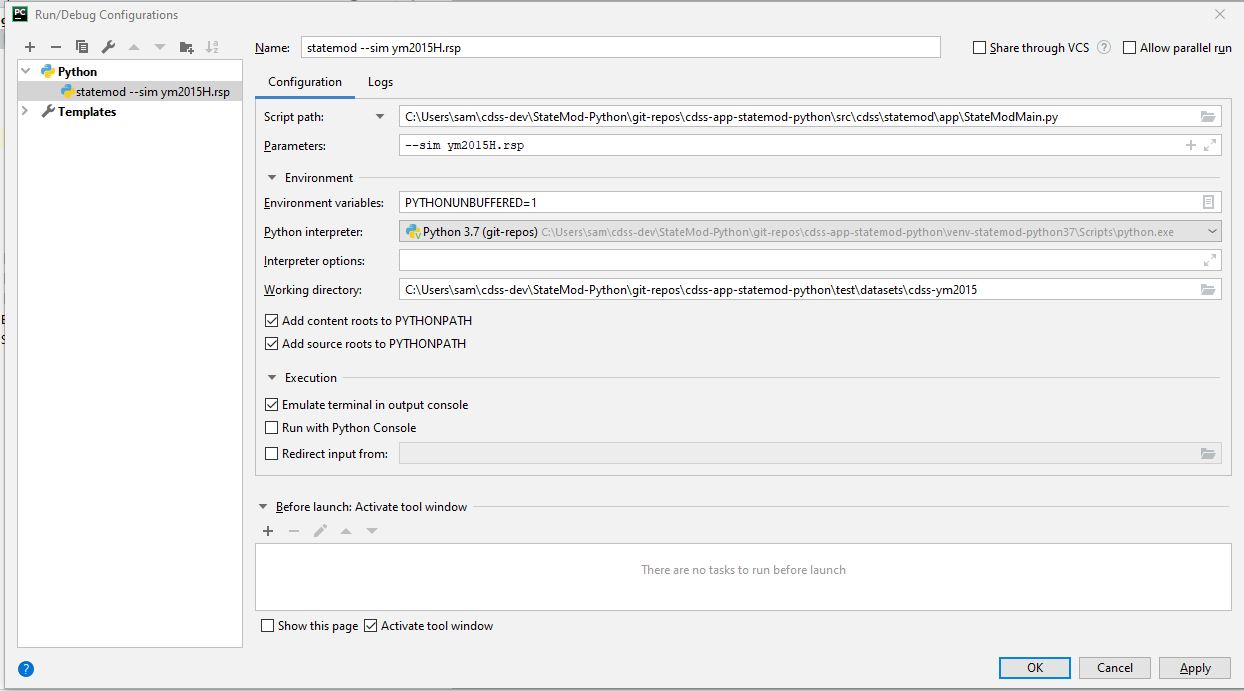
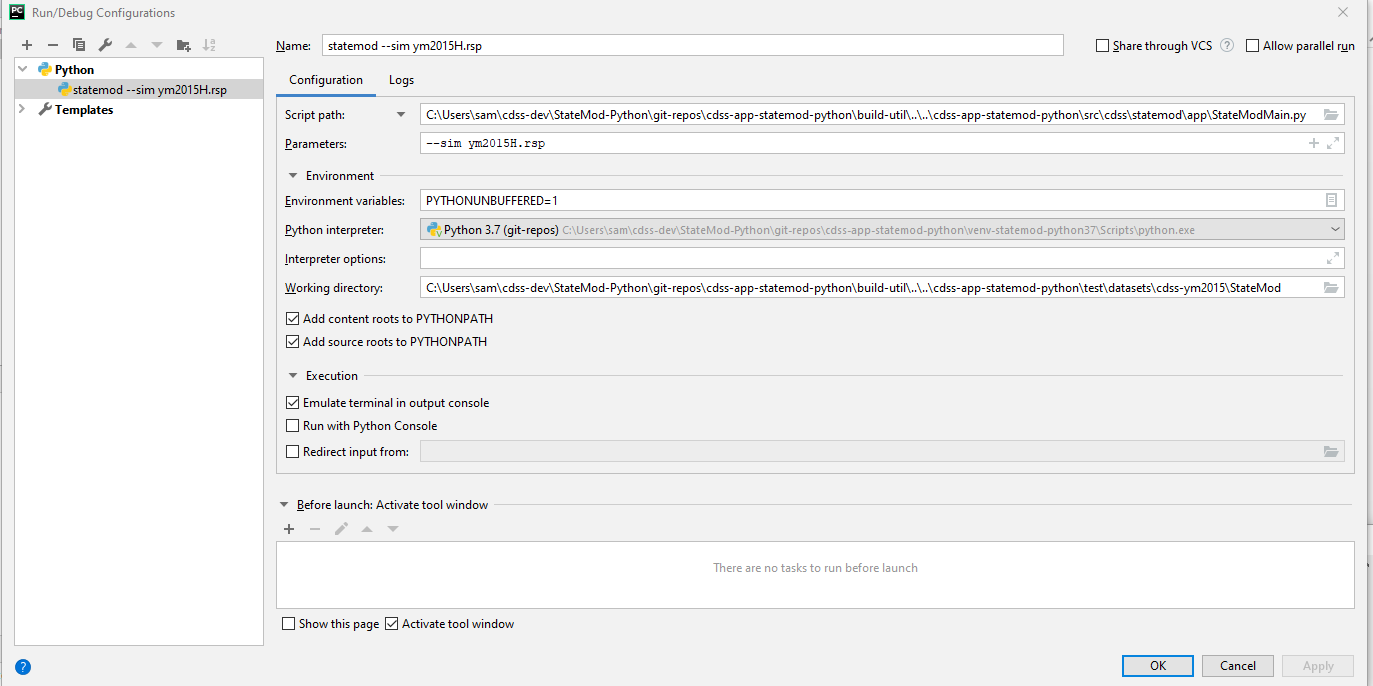
Update README based on review.

Changed region(s): [[0.0, 0.0, 1.0, 1.0], [0.0, 0.4592, 0.0305, 0.4898]]

diff --git a/README.md b/README.md
@@ -14,29 +14,33 @@ CDSS prototype of StateMod written in Python
 
 ## Introduction ## 
 
-The code in this repository, and other related repositories,
-was ported from the Java code found in the separate repository
-[cdss-app-statemod-java](https://github.com/OpenCDSS/cdss-app-statemod-java),
-in an effort to determine which programming language would be best suited for
+The code in this repository and other related repositories was ported from Java code
+in an effort to evaluate which programming language(s) may be suitable for
 converting the StateMod software from Fortran to another language.
-The initial StateMod code in Fortran was converted to Java by [@Smalers](https://github.com/smalers) at the Open Water Foundation.
-The Java code was then converted to C# before being ported and converted to Python.
-The C# code can be found in the repository [cdss-app-statemod-cs](<https://github.com/OpenCDSS/cdss-app-statemod-cs>). 
 
-The process for porting the code from Java to Python was as follows:
+The StateMod Java prototype was implemented as a simple main program that uses extensive Java libraries that have been
+developed for data processing tools including TSTool and StateDMI.
+The Java code was ported to Python in this and other Python code repositories (see below) in order to create a Python StateMod prototype.
 
+The main repositories for StateMod language evaluation prototypes are:
+
+* Java:  [cdss-app-statemod-java](https://github.com/OpenCDSS/cdss-app-statemod-java)
+* C#:  [cdss-app-statemod-cs](https://github.com/OpenCDSS/cdss-app-statemod-cs) 
+* Fortran 2008:  [cdss-app-statemod-f2008](https://github.com/OpenCDSS/cdss-app-statemod-f2008) 
+* Python:  this repository
+
+The process for porting the code from Java to Python was as follows: 
 All code was converted by hand, since there was no competent automatic Java to Python converter for Python3.x.
 The first file ported over was `StateMod_Main.py` as the entry point for the program.
 Additional files were added with the necessary classes and functions that were needed by this entry point.
-Files were added in a branching manner to ensure that all code had access to the necessary classes and functions to run properly. 
 
-The files currently supported by StateMod-Python are:
+The StateMod dataset files that are currently supported by StateMod-Python are:
 
 - `.rsp` 
 - `.dds`
 - `.ddr`
 - `StateMod_StreamGage` (`.rin`, `.ris`)
-- All Time Series files read by `StateMod_TS.py` 
+- all time series files read by `StateMod_TS.py` 
 
 ## Repository Contents ##
 
@@ -49,7 +53,7 @@ Repository folder names should agree with GitHub repository names.
 Scripts in repository folders that process data should detect their starting location
 and then locate other folders based on the following convention.
 
-*See [Development Envrironment Setup](#development-environment-setup) below to easily download all repositories to a local environment* 
+See [Development Environment Setup](#development-environment-setup) below to easily download all repositories to a local environment.
 
 ```
 C:\Users\user\                                 User's home folder for Windows.
@@ -57,14 +61,14 @@ C:\Users\user\                                 User's home folder for Windows.
 /cygdrive/C/Users/user/                        User's home folder for Cygwin.
 /home/user/                                    User's home folder for Linux.
   owf-cdss/                                    Projects that are part of Colorado's Decision Support Systems.
-    StateMod-Python/                           StateMod C# product folder.
+    StateMod-Python/                           StateMod Python product folder.
                                                (name of this folder is not critical).
       ---- below here folder names should match exactly ----
-      git-repos/                               Git repositories for the Angular portal web application.
+      git-repos/                               Git repositories for the StateMod Python application.
         cdss-app-statemod-python/              Statemod Python main application code (this repo).
         cdss-lib-cdss-python/                  Library shared between CDSS components.
         cdss-lib-common-python/                Library of core utility code used by multiple repos.
-        cdss-lib-models-python/                Library to read/write CDSS StateCU and StateMod  model files.
+        cdss-lib-models-python/                Library for CDSS StateCU and StateMod  model files.
 ```
 
 This repository contains the following:
@@ -82,7 +86,7 @@ cdss-app-statemod-python
     datasets/
       cdss-ym2015/                             Tests for StateMod application - Yampa dataset input files.
   README.md                                    This file.
-  LICENSE.md                                   StateMod Java license file.
+  LICENSE.md                                   StateMod Python license file.
 ```
 
 ## Development Environment Setup ##
@@ -95,10 +99,11 @@ It is assumed that Git for Windows has been installed.  Git Bash will be used fo
 1. Go to the [PyCharm Download](<https://www.jetbrains.com/pycharm/download/#section=windows>) page.
 2. Select ***Download*** for the Community edition.
 3. If working on a Windows computer, run the downloaded `.exe` file and follow the installation steps in the install wizard.
+Accept the defaults.
 
 ### Download necessary repositories ###
 
-Several Python repositories are used, matching Java code that was ported to Python for this prototype.
+Several Python repositories are used, matching Java code repositories that were ported to Python for this prototype.
 Each repository is cloned to collectively result in the StateMod Python software.
 
 1. Create a folder:  `C:\Users\user\cdss-dev\StateMod-Python\git-repos`
@@ -107,7 +112,8 @@ Each repository is cloned to collectively result in the StateMod Python software
 	2. Clone main repository: `git clone https://github.com/OpenCDSS/cdss-app-statemod-python.git` 
 	3. `cd cdss-app-statemod-python/build-util` 
 	4. Run `./git-clone-all-sm.sh` and follow the prompts to clone related repositories.
-	This will automatically download the remaining repositories locally. 
+	This will automatically download the remaining repositories locally
+	if they do not already exist. 
 
 ### Set up a StateMod-Python project in PyCharm ###
 
@@ -116,7 +122,7 @@ This is different than Eclipse/Java, which uses a workspace that contains multip
 Because it is easy to set up a PyCharm project and because project files will be modified for different developers,
 it is best to NOT store PyCharm project files in repositories.
 Therefore, the following steps describe how to set up a new Python project
-that use multiple GitHub repositories, each containing Python code.
+that uses multiple GitHub repositories, each containing Python code.
 This approach can be revised later if a better approach is determined.
 
 1. Start PyCharm from the ***Start / JetBrains / PyCharm*** menu for the desired (typically most recent) version.
@@ -145,8 +151,9 @@ A folder `git-repos/.idea/` will be created with PyCharm project files,
 which will not be saved in any repository.
 If the virtual environment folder is not created,
 then create it by following the
-[PyCharm Virtual Environment instructions](https://www.jetbrains.com/help/pycharm/creating-virtual-environment.html).
-5. For each repository, expand the folders, select the `src` folder and select
+[PyCharm Virtual Environment instructions](https://www.jetbrains.com/help/pycharm/creating-virtual-environment.html)
+and the folder shown in the above image.
+5. For each repository, expand the folders, select the `src` folder, right-click and select
 ***Mark Directory as / Sources Root*** to let PyCharm know which folders contain source code
 that will be known for Python `import` statements.
 The PyCharm interface will be similar to the following:<br>
@@ -177,18 +184,21 @@ Unfortunately, the run configurations are stored in the `.idea/workspace.xml` fi
 which is not saved in a repository.
 Therefore, run configurations need to be defined for each user.
 This can be improved by implementing tests outside of PyCharm run configurations.
-Run configurations for other datasets can be configured similarly, as described in the following section,
-although datasets are not saved in the repository.
+Run configurations for other datasets can be configured similarly, as described in the following steps,
+although datasets other than ym2015 are not saved in the repository.
 The following steps define and run a configuration for the Yampa historical dataset.
 
 1. Click on ***Run*** > ***Edit Configurations...***.
-2. Select ***Templates / Python*** and then the ***+*** to add a Python run configuration.
-Specify the configuration as shown:<br>
+2. Select ***Templates / Python*** and then the ***+*** to add a Python run configuration
+that used the template.
+Specify the configuration as shown.
+An attempt to use PyCharm configuration variables rather than full paths was not successful,
+but there may be a way to do this.<br>
 ![run-config-sim-ym2015H](doc/images/run-config-sim-ym2015H.png)
 3. Click ***OK*** to save the configuration.
-4. Now the program should be able to be run by doing **Shift** + **F10**. 
+4. Now the program should be able to be run by doing **Shift** + **F10** or use the ***Run*** menu. 
 
-To see output after StateMod has been run open the file `cdss-app-statemod-python/test/datasets/cdss-yampa/StateMod/ym2015.rsp.sim.log`. 
+To see output after StateMod has been run open the file `cdss-app-statemod-python/test/datasets/cdss-ym2015/StateMod/ym2015.rsp.sim.log`. 
 
 ### Add Additional Datasets ###
 
@@ -199,6 +209,10 @@ To add other datasets, download from the CDSS website and copy the `StateMod` fo
 Then create a run configuration similar to that described in the previous section.
 
 ### Run PyCharm After Initial Setup ###
+
+To run PyCharm after initial setup,
+open a Windows Command prompt window, change to `build-util` folder and run `run-pycharm-statemod.bat`.
+This batch file will run PyCharm by specifying the project to open.
 
 ## Contributing ##
 
@@ -212,11 +226,6 @@ Contributions to this project can be submitted using the following options:
     code review before committing the pull request.
 
 See also the [OpenCDSS / StateMod protocols](http://opencdss.state.co.us/opencdss/statemod/)
-
-## Maintainers ##
-
-* Justin Rentie, Open Water Foundation ([@jurentie](https://github.com/jurentie))
-* Steve Malers, Open Water Foundation ([@Smalers](https://github.com/smalers))
 
 ## License ##
 
